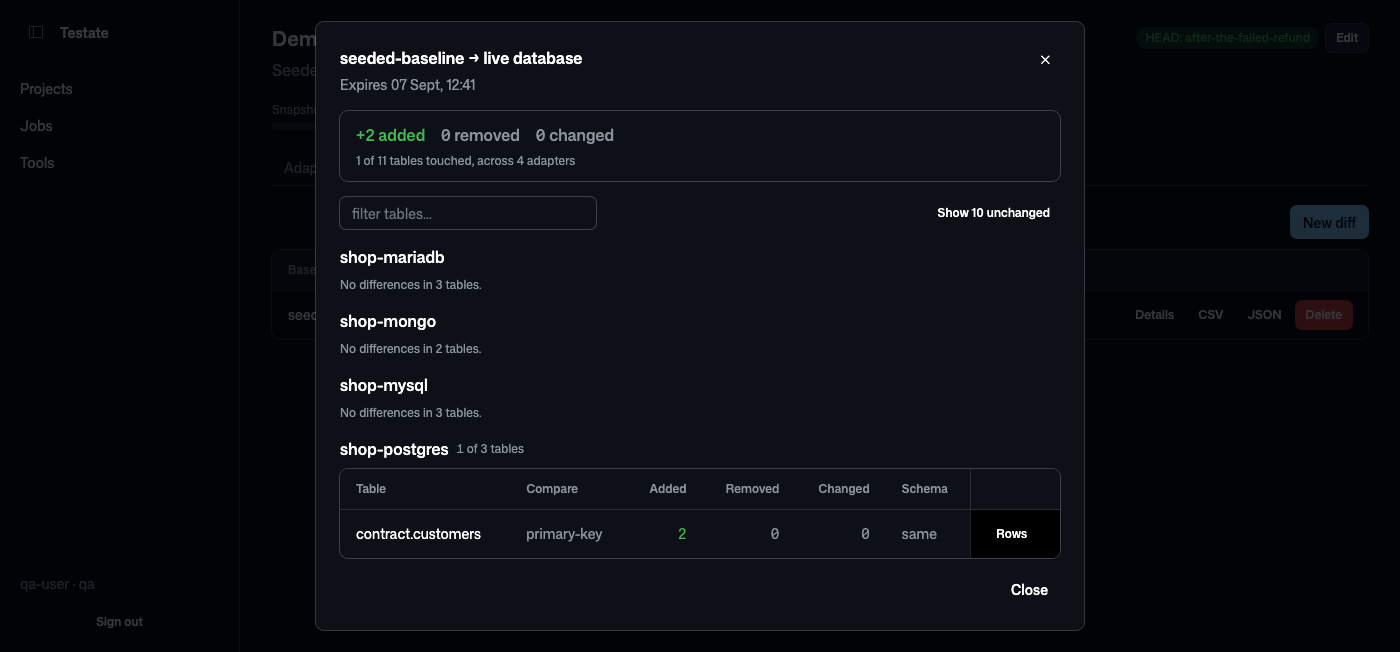
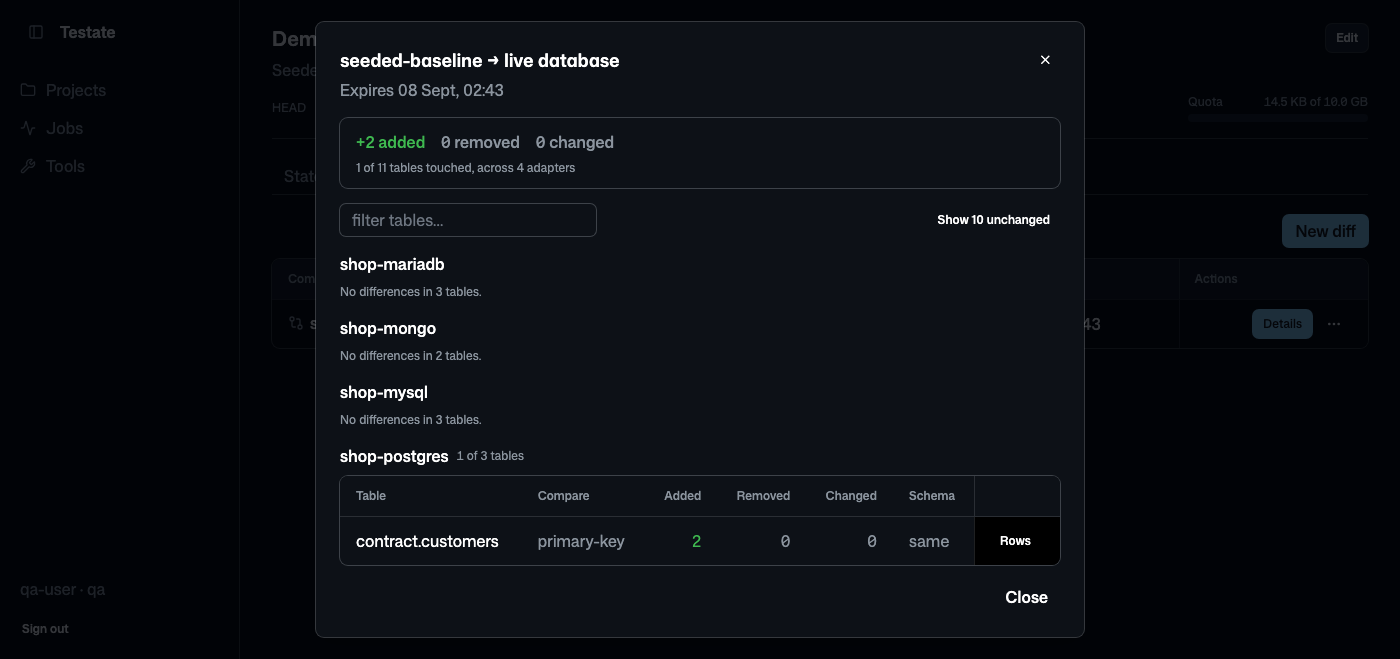
docs(readme): shoot the screens again, on the interface that exists now
Every PNG under `docs/assets/screens` was taken before the redesign landed and
showed the old table-and-Kumo interface. The README's own alt text had already
been rewritten for the new one, so the words and the pictures disagreed.

Re-shot with `SHOTS=1`. The states timeline, the History tab, the plain-English
import results and the disabled Add filter are all in them, which is also the
first visual confirmation that the tag and adapter-name regressions are gone.

Sign out sat centred under an account link that reads from the left edge,
because a button centres its label and the two share one grid column. It reads
down the same edge now.

diff --git a/apps/web/src/app.tsx b/apps/web/src/app.tsx
@@ -212,7 +212,14 @@ function Sidebar(props: { current: string | undefined }): JSX.Element {
               >
                 {current().label} · {current().role}
               </a>
-              <Button size="sm" variant="ghost" onClick={() => void signOut()}>
+              {/* A button centres its label; the account link above it reads from the left edge,
+                  and the two sitting in one grid column have to line up on that edge. */}
+              <Button
+                size="sm"
+                variant="ghost"
+                class="justify-start"
+                onClick={() => void signOut()}
+              >
                 Sign out
               </Button>
             </>
